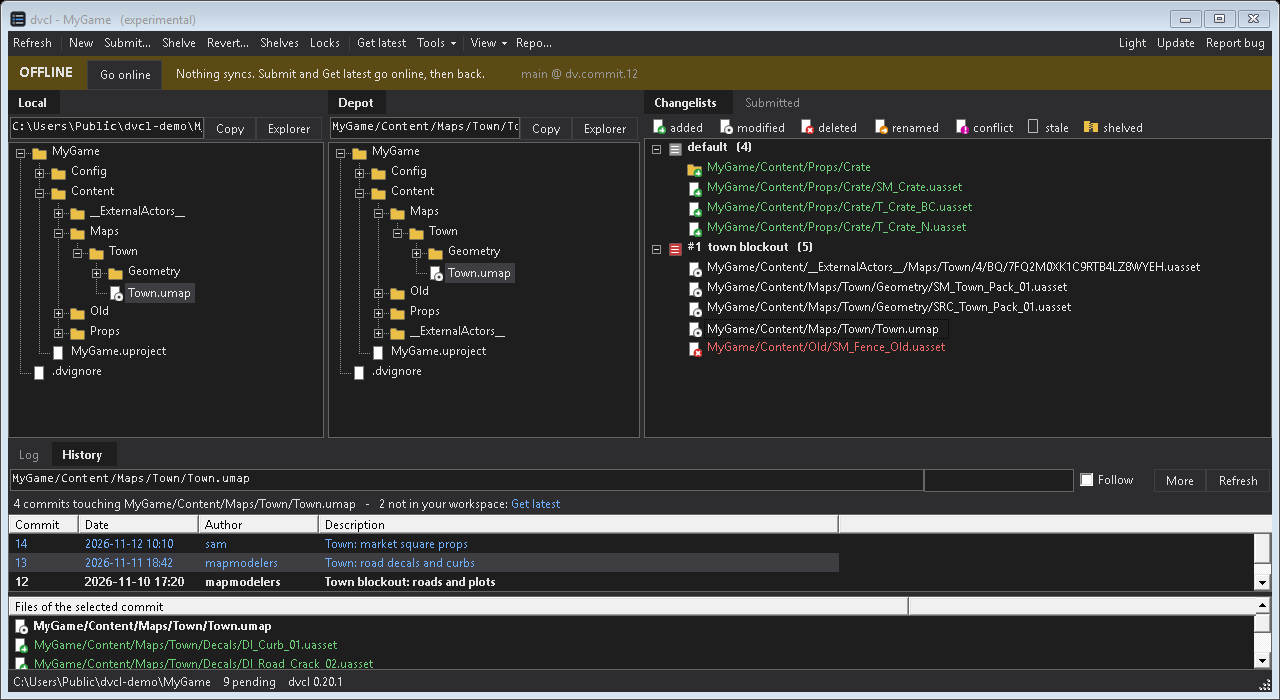
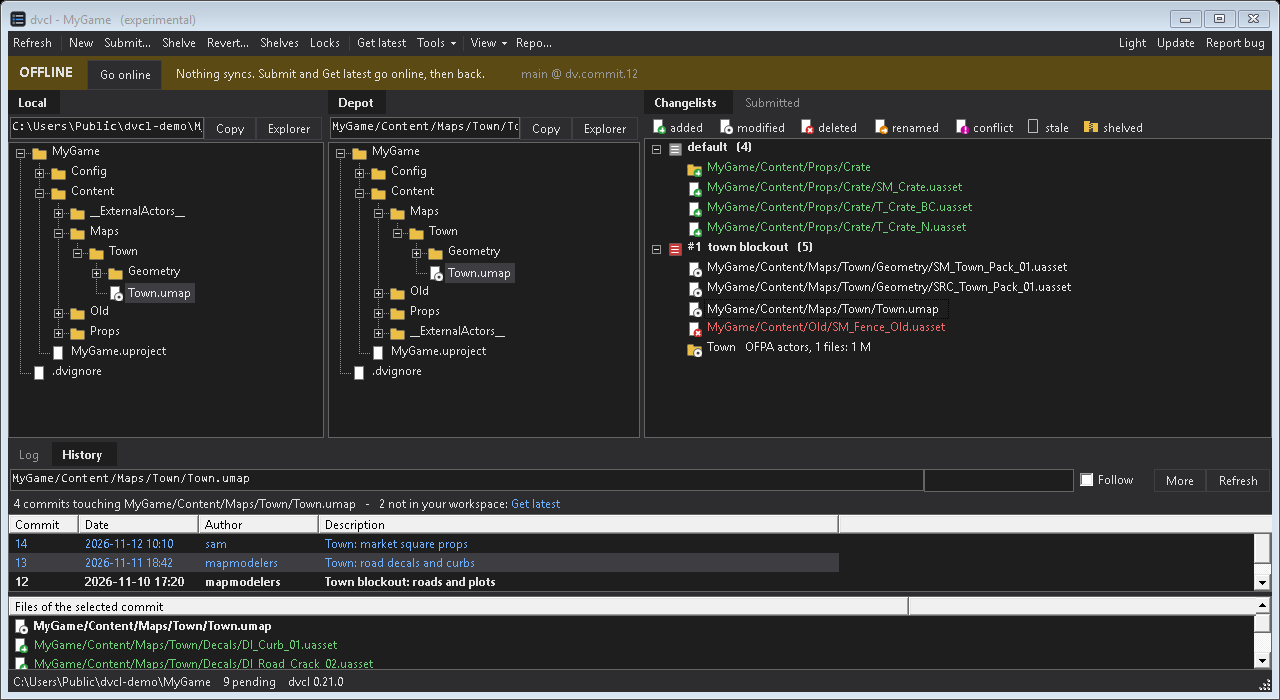
dvcl 0.21.0: OFPA actor files shown as one line per level in changelists and shelves

Changed region(s): [[0.5312, 0.36, 0.9062, 0.51]]

diff --git a/docs/index.html b/docs/index.html
@@ -37,6 +37,7 @@
   <ul>
     <li>Numbered changelists: group pending files, submit, shelve, revert.</li>
     <li>Shelves belong to their changelist, files always listed; unshelve into any changelist, all or selected files.</li>
+    <li>Unreal OFPA actor files: one line per level instead of thousands of rows.</li>
     <li>Submitted and History: commits, their files, what you have not got yet.</li>
     <li>Panels you arrange: drag tabs together, to an edge, or out into their own window.</li>
     <li>Offline: nothing syncs. Submit and Get latest go online, then back.</li>

diff --git a/README.md b/README.md
@@ -8,6 +8,7 @@ Changelists for [Diversion](https://diversion.dev). [Site](https://mapmodelers.g
 
 - Numbered changelists: group pending files, submit, shelve, revert.
 - Shelves belong to their changelist, files always listed; unshelve into any changelist (menu or drag), all or selected files.
+- Unreal OFPA actor files: one line per level instead of thousands of rows (View menu).
 - Local and Depot trees, state icons, path bars. Drop a file on a tree to find it.
 - Submitted and History: commits, their files, what you have not got yet.
 - Unreal: revert, unshelve and get latest without restarting the editor (dvcl link plugin: Tools > Unreal link, install once).

diff --git a/CHANGELOG.md b/CHANGELOG.md
@@ -2,6 +2,10 @@
 
 Versions follow [semver](https://semver.org). Tags: `vX.Y.Z`.
 
+## 0.21.0 - 2026-11-16
+
+- OFPA files (Unreal one-file-per-actor, __ExternalActors__ / __ExternalObjects__): one line per level in changelists and shelves, with the file count by kind. Click, Ctrl / Shift+click, drag, move, revert, shelve, submit and unshelve act on all its files. View > "OFPA files: one line per level" (on by default, remembered).
+
 ## 0.20.1 - 2026-11-15
 
 - Marked experimental (window title, tray, README, site), with a feedback link (GitHub issues).
